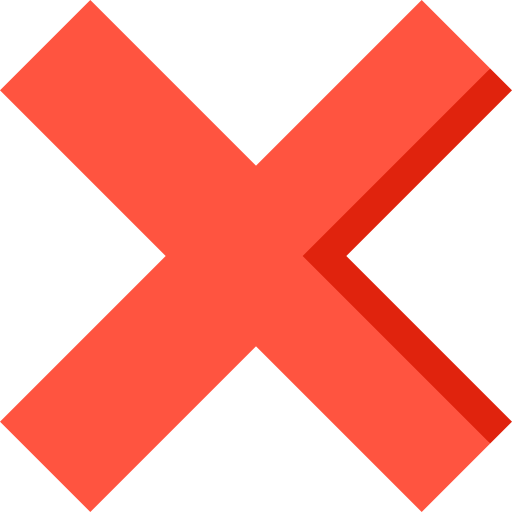
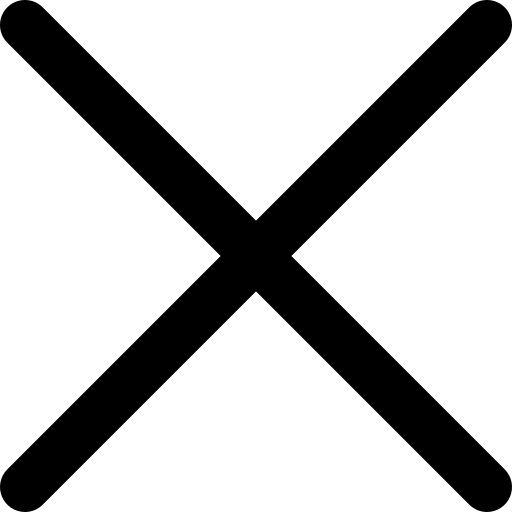
feat:no-adaptive no drag&drop

diff --git a/gem-puzzle/script.js b/gem-puzzle/script.js
@@ -1,3 +1,4 @@
+// alert("Не успел доделать adaptive и drag&drop, проверь позже или перепроверь в конце кроссчек")
 const wrapper = document.createElement("div");
 wrapper.classList.add(".wrapper");
 document.body.prepend(wrapper);
@@ -131,10 +132,10 @@ function findChildEmptyCeil(size) {
     };
 }
 
-wrapper.addEventListener("click", funMovingCell);
 let audioCell = new Audio();
 audioCell.src = "audio-cell.mp3";
 
+wrapper.addEventListener("click", funMovingCell);
 function funMovingCell(EO) {
     const cells = document.querySelectorAll(".cell");
     const movesCount = document.querySelector(".moves span");
@@ -176,7 +177,7 @@ function funMovingCell(EO) {
 
         elEvent.addEventListener("transitionend", funTransitionEnd);
 
-        function funTransitionEnd(e) {
+        function funTransitionEnd() {
             const range = document.querySelector(".range");
             if(range.value==10){
                 audioCell.play();
@@ -201,7 +202,111 @@ function funMovingCell(EO) {
 }
 
 
+// window.addEventListener("mousedown", cellMouseDown);
+// window.addEventListener("mouseup", cellMouseUp);
 
+// let x = 0;
+// let y = 0;
+// let glob;
+// let leftGr;
+// let rightGr;
+// let upGr;
+// let downGr;
+// function cellMouseDown(EO) {
+//     // wrapper.removeEventListener("mousedown", funMovingCell);
+//     EO.preventDefault();
+//     const cells = document.querySelectorAll(".cell");
+//     let emptyCell = document.querySelector(".empty-cell");
+
+//     let {
+//         prevChild,
+//         nextChild,
+//         upChild,
+//         downChild
+//     } = findChildEmptyCeil(Math.pow(cells.length, 0.5));
+    
+//     let cell = EO.target;
+//     cell.style.zIndex=99;
+//     if(cell == prevChild || cell == nextChild){
+//         x = EO.pageX - cell.offsetLeft;
+//     }
+//     if(cell == upChild || cell == downChild){
+//         y = EO.pageY - cell.offsetTop;
+//     }
+//     window.addEventListener("mousemove", cellMouseMove);
+//         leftGr = cell.offsetLeft;
+//         rightGr = emptyCell.offsetLeft;
+//         upGr = cell.offsetTop;
+//         downGr = emptyCell.offsetTop;
+//     function cellMouseMove(EO) {
+//         EO.preventDefault();
+//         if(cell == prevChild){
+//             if(EO.pageX -x >leftGr && EO.pageX -x < rightGr+1){
+//                 cell.style.left = (EO.pageX - x) + 'px';
+//             }
+//         }else if(cell == nextChild){
+//             if(EO.pageX -x < leftGr && EO.pageX -x > rightGr+1){
+//                 cell.style.left = (EO.pageX - x) + 'px';
+//             }
+//         }else if(cell == upChild){
+//             if(EO.pageY -y >upGr && EO.pageY -y < downGr){
+//                 cell.style.top = (EO.pageY - y) + 'px';
+//             }
+//         }else if(cell == downChild){
+//             if(EO.pageY - y < upGr && EO.pageY -y > downGr){
+//                 cell.style.top = (EO.pageY - y) + 'px';
+//             }
+//         }
+//     }
+//     glob = cellMouseMove;
+// }
+
+// function cellMouseUp(EO) {
+//     EO.preventDefault();
+
+//     let left = EO.target.offsetLeft,
+//     top = EO.target.offsetTop;
+
+//     const cells = document.querySelectorAll(".cell");
+//     const empty = document.querySelector(".empty-cell");
+    
+//     let {
+//         prevChild,
+//         nextChild,
+//         upChild,
+//         downChild
+//     } = findChildEmptyCeil(Math.pow(cells.length, 0.5));
+
+//     if(Math.abs(EO.target.offsetLeft-empty.offsetLeft)<=empty.offsetWidth/2 ){
+//         left = empty.offsetLeft;
+//     }else{
+//         if(EO.target == nextChild){
+//             left = Math.abs(empty.offsetLeft + empty.offsetWidth);
+//         }else{
+//             left = Math.abs(empty.offsetLeft - empty.offsetWidth);
+//         }
+//     }
+
+//     if(Math.abs(EO.target.offsetTop-empty.offsetTop)<=empty.offsetHeight/2){
+//         top = empty.offsetTop;
+//     }else{
+//         if(EO.target == downChild){
+//             top = Math.abs(empty.offsetTop + empty.offsetHeight);
+//         }else{
+//             top = Math.abs(empty.offsetTop - empty.offsetHeight);
+//         }
+//     }
+
+
+//     if (EO.target == prevChild || EO.target == nextChild ||
+//         EO.target == upChild || EO.target == downChild) {
+//         EO.target.style.left = left + "px";
+//         EO.target.style.top = top + "px";
+//     }
+
+    
+//     window.removeEventListener('mousemove', glob);
+// }
 
 const menu = document.createElement("div");
 const shuffle = document.createElement("div");
@@ -425,10 +530,10 @@ save.addEventListener("click", (e) => {
             fieldBlock.style.display = "none";
             saveIsDisabled();
             funShuffleAndRestart();
-        }, 1000);
 
-        document.querySelector("*").style.cursor = "auto";
-        save.style.cursor = "pointer";
+            document.querySelector("*").style.cursor = "auto";
+            save.style.cursor = "";
+        }, 1000);
     }
 
 });
@@ -524,7 +629,7 @@ function getDataofLS() {
         minuteState,
         secondState,
         fieldInnerState,
-        otherSizeState,
+        otherSizeState
     } = JSON.parse(gameState);
 
     const save = document.querySelector(".save"),
@@ -532,7 +637,8 @@ function getDataofLS() {
         minuteElement = document.querySelector(".minute"),
         secondElement = document.querySelector(".second"),
         field = document.querySelector(".field"),
-        otherSize = document.querySelector(".other-size");
+        otherSize = document.querySelector(".other-size"),
+        sound = document.querySelector(".sound");
 
     if (saveState) {
         save.classList.add("save-active");
@@ -545,6 +651,8 @@ function getDataofLS() {
     second = +secondState;
     field.innerHTML = fieldInnerState;
     otherSize.innerHTML = otherSizeState;
+    sound.innerHTML = ` <input class="range" type="range"  min="0" max="10" value="0"
+    step="1">`;
 }
 getDataofLS();
 
@@ -622,9 +730,7 @@ function showTableRecord() {
             divBox.style.alignItems = 'center';
             divBox.style.paddingLeft = 20 + 'px';
             divBox.style.marginBottom = 20 + 'px';
-    
-            // var colors = color();
-    
+        
             var divCircle = document.createElement('div');
             divCircle.style.position = 'absolute';
             divCircle.style.width = 60 + 'px';
@@ -675,8 +781,6 @@ function showTableRecord() {
                 <img style = "margin-right:10px" width="30" src="tap.png">${mas[i].moves}
                  &#9200; ${mas[i].minute}:${mas[i].second} 	
                 &#128270; ${mas[i].sizeState}`; //nik
-
-                console.log(mas[i].moves);
     
             divBox.appendChild(divCircle);
             divBox.appendChild(divRec);
@@ -722,3 +826,14 @@ tableRec.addEventListener("click",(e)=>{
     }
 });
 
+
+const m727 = window.matchMedia('(max-width: 727px)');
+
+window.addEventListener("resize",()=>{
+    if(m727.matches){
+        addFieldInPage(4, 600);
+    }else{
+        addFieldInPage(4, 700);
+ 
+    }
+})

diff --git a/gem-puzzle/style.css b/gem-puzzle/style.css
@@ -20,10 +20,9 @@ body {
     display: flex;
     align-items: center;
     justify-content: center;
-    cursor: pointer;
     font-size: 25px;
     background: pink;
-    border-radius: 20%;
+    border-radius: 10%;
 }
 
 .empty-cell {
@@ -214,7 +213,7 @@ input[type=range] {
     appearance: none;
     background-image: url("on.png"),url("off.png");
     background-position:5px center, 55px center;
-    background-size: 38px 38px;
+    background-size: 30px 30px;
     background-repeat: no-repeat;
 }
 